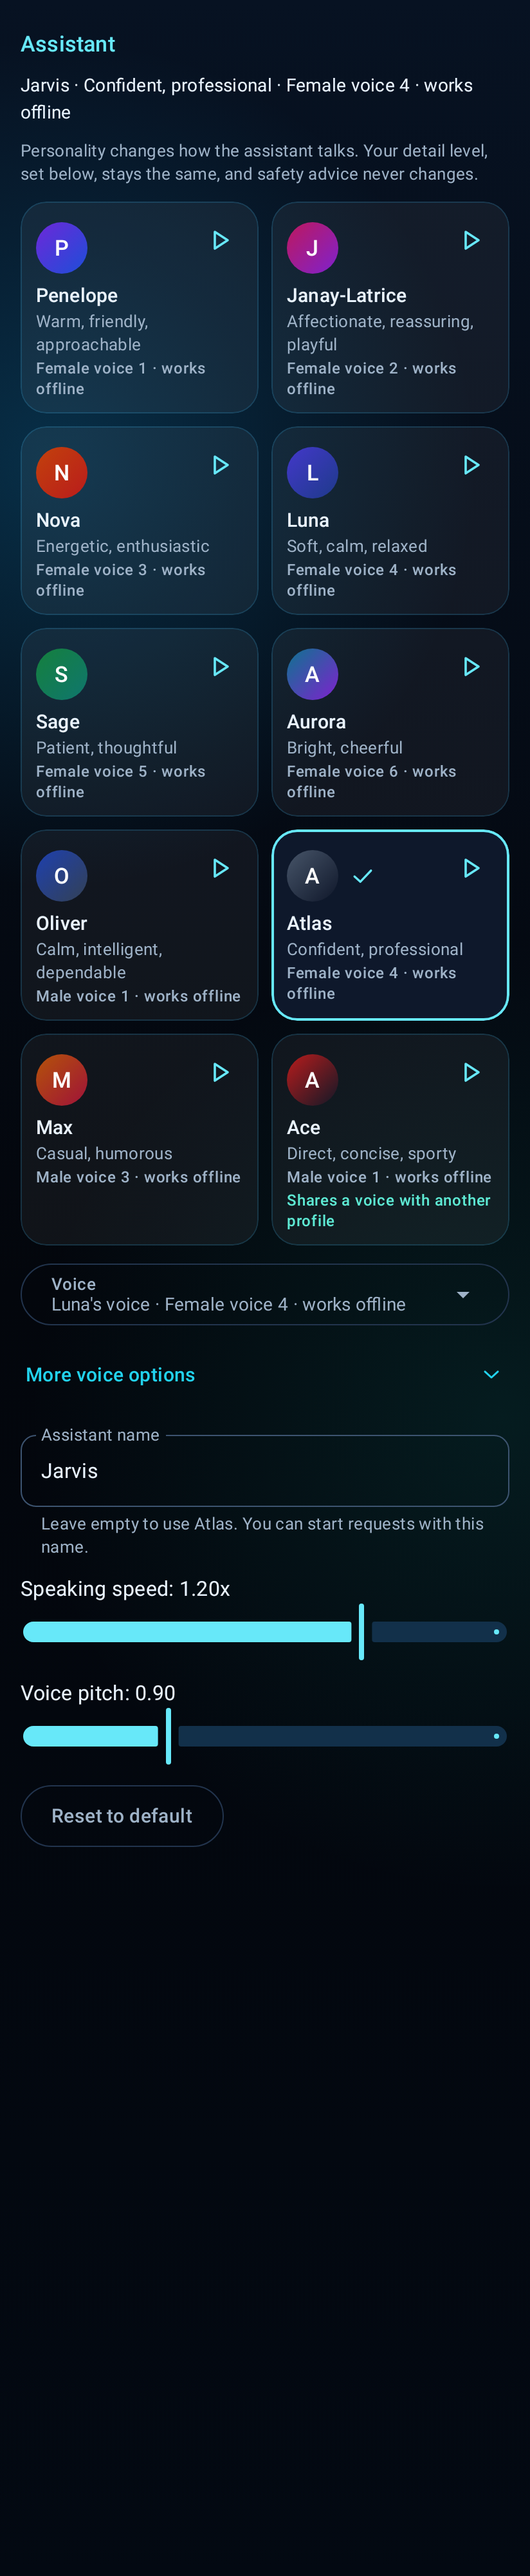
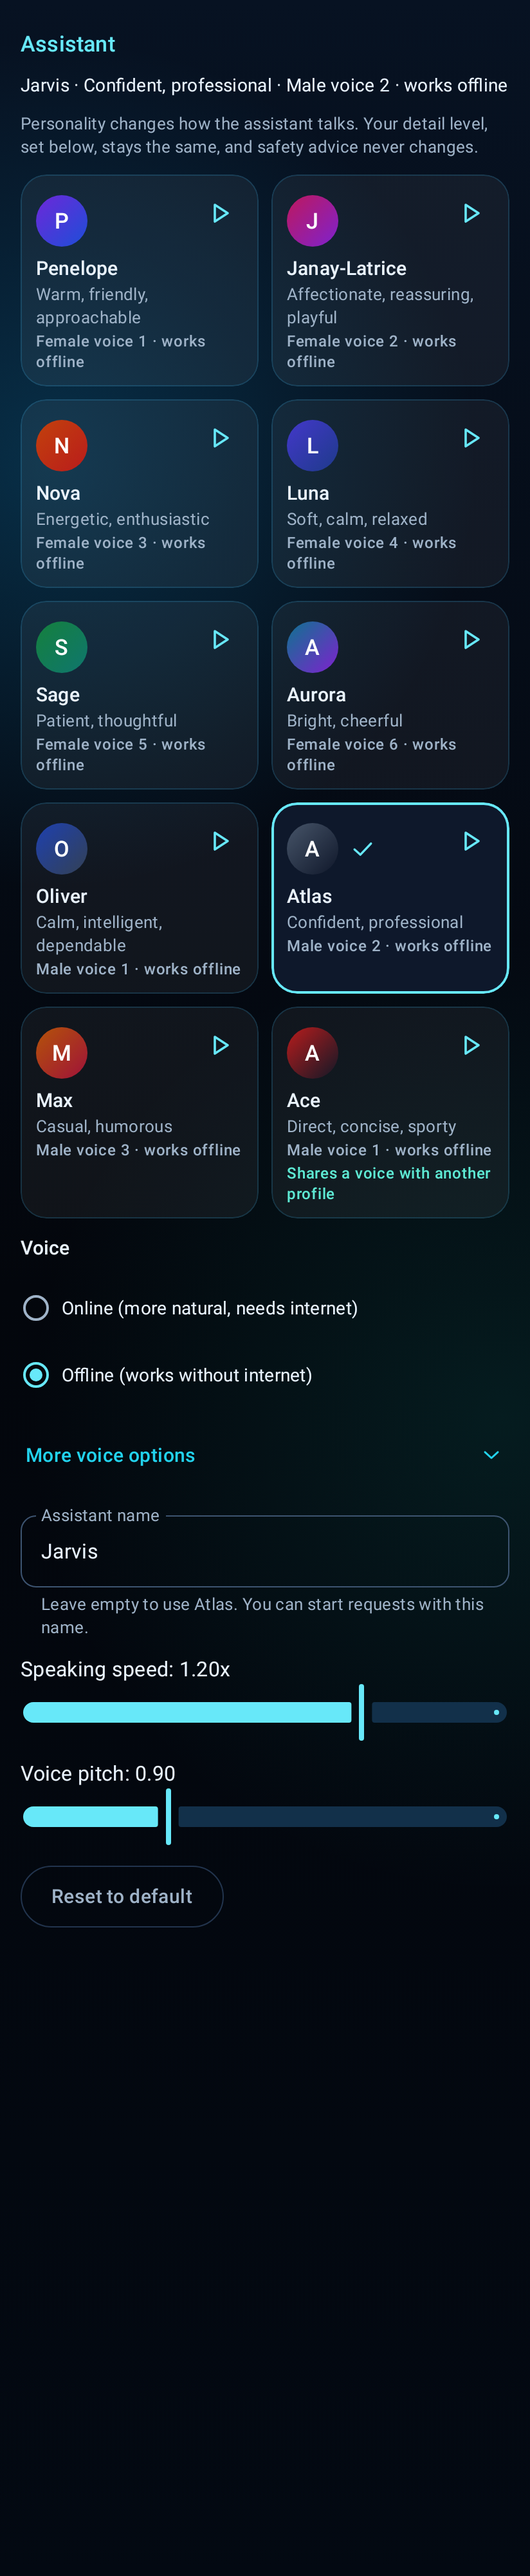
Settings: remove voice dropdown (voice follows profile); add Online/Offline voice choice
Claude-Session: https://claude.ai/code/session_01CrrQxWvMRMsLJ48dtPymJm

diff --git a/app/src/test/java/com/aicarcompanion/app/data/local/SettingsMigrationTest.kt b/app/src/test/java/com/aicarcompanion/app/data/local/SettingsMigrationTest.kt
@@ -1,6 +1,7 @@
 package com.aicarcompanion.app.data.local
 
 import com.aicarcompanion.app.assistant.persona.VoiceChoice
+import com.aicarcompanion.app.data.local.VoiceSource
 import org.junit.Assert.assertEquals
 import org.junit.Assert.assertFalse
 import org.junit.Assert.assertNull
@@ -25,9 +26,9 @@ class SettingsMigrationTest {
         }
     }
 
-    @Test fun `legacy voice becomes an installed voice choice`() {
+    @Test fun `legacy voice is normalized to follow the profile`() {
         val s = SettingsCodec.read(legacy("tts_voice" to "en-us-x-iol-local"))
-        assertEquals(VoiceChoice.Installed("en-us-x-iol-local"), s.voiceChoice)
+        assertEquals(VoiceChoice.MatchPersonality, s.voiceChoice)
         assertEquals(VoiceChoice.MatchPersonality, SettingsCodec.read(legacy()).voiceChoice)
     }
 
@@ -45,7 +46,7 @@ class SettingsMigrationTest {
         assertFalse(kv.map.containsKey("assistant_name"))
         assertFalse(kv.map.containsKey("tts_voice"))
         assertEquals("Jarvis", kv.map["custom_assistant_name"])
-        assertEquals("installed:v1", kv.map["voice_choice"])
+        assertEquals("match", kv.map["voice_choice"])
         assertEquals("penelope", kv.map["assistant_profile"])
     }
 
@@ -71,15 +72,37 @@ class SettingsMigrationTest {
         assertEquals(VoiceChoice.MatchPersonality, SettingsCodec.read(legacy("settings_schema" to "2", "voice_choice" to "installed:")).voiceChoice)
     }
 
-    @Test fun `all voice choices and profile round-trip`() {
-        listOf(VoiceChoice.MatchPersonality, VoiceChoice.Profile("max"), VoiceChoice.Installed("en-gb-x-gbb-local")).forEach { choice ->
+    @Test fun `profile name and voice source round-trip and the voice always follows the profile`() {
+        VoiceSource.entries.forEach { source ->
             val kv = MapKeyValueStore()
             val store = PersistentSettingsStore(kv)
-            store.update { it.copy(assistantProfileId = "ace", customName = "Zoë", voiceChoice = choice) }
+            store.update { it.copy(assistantProfileId = "ace", customName = "Zoë", voiceChoice = VoiceChoice.Profile("max"), voiceSource = source) }
             val back = PersistentSettingsStore(kv).settings.value
-            assertEquals(choice, back.voiceChoice)
+            assertEquals(VoiceChoice.MatchPersonality, back.voiceChoice)
+            assertEquals(source, back.voiceSource)
             assertEquals("ace", back.assistantProfileId)
             assertEquals("Zoë", back.assistantName)
+        }
+    }
+
+    @Test fun `voice source defaults to offline and a bad value falls back to offline`() {
+        assertEquals(VoiceSource.OFFLINE, SettingsCodec.read(legacy()).voiceSource)
+        assertEquals(VoiceSource.OFFLINE, SettingsCodec.read(legacy("settings_schema" to "2", "voice_source" to "weird")).voiceSource)
+        assertEquals(VoiceSource.ONLINE, SettingsCodec.read(legacy("settings_schema" to "2", "voice_source" to "online")).voiceSource)
+        val kv = MapKeyValueStore()
+        PersistentSettingsStore(kv).update { it.copy(voiceSource = VoiceSource.ONLINE) }
+        assertEquals("online", kv.map["voice_source"])
+    }
+
+    @Test fun `a stored installed or profile voice choice is normalized to match and persisted once`() {
+        listOf("installed:en-gb-x-gbb-local", "profile:max").forEach { stored ->
+            val kv = legacy("settings_schema" to "2", "assistant_profile" to "ace", "custom_assistant_name" to "Zed", "voice_choice" to stored)
+            assertTrue(SettingsCodec.needsVoiceNormalization(kv))
+            val s = PersistentSettingsStore(kv).settings.value
+            assertEquals(VoiceChoice.MatchPersonality, s.voiceChoice)
+            assertEquals("match", kv.map["voice_choice"])
+            assertEquals("ace", kv.map["assistant_profile"]); assertEquals("Zed", kv.map["custom_assistant_name"])
+            assertFalse(SettingsCodec.needsVoiceNormalization(kv))
         }
     }
 
@@ -88,7 +111,10 @@ class SettingsMigrationTest {
         assertFalse(SettingsCodec.needsMigration(kv))
         val s = PersistentSettingsStore(kv).settings.value
         assertEquals("ace", s.assistantProfileId); assertEquals("Zed", s.customName)
-        assertEquals(VoiceChoice.Profile("luna"), s.voiceChoice)
+        assertEquals(VoiceChoice.MatchPersonality, s.voiceChoice)
+        // Normalizing the voice touches only that key: the newer schema marker and other keys stay.
+        assertEquals("match", kv.map["voice_choice"])
+        assertEquals("3", kv.map["settings_schema"])
         assertEquals("Zed", kv.map["custom_assistant_name"])
     }
 

diff --git a/app/src/test/java/com/aicarcompanion/app/ui/PersonalizationUiTest.kt b/app/src/test/java/com/aicarcompanion/app/ui/PersonalizationUiTest.kt
@@ -70,7 +70,15 @@ class PersonalizationUiTest {
         }
     }
 
-    private val isRadio = SemanticsMatcher("is a radio button") { it.config.getOrNull(SemanticsProperties.Role) == Role.RadioButton }
+    private fun isSourceRadio(n: androidx.compose.ui.semantics.SemanticsConfiguration): Boolean {
+        val t = n.getOrNull(SemanticsProperties.Text).orEmpty().joinToString { it.text }
+        return n.getOrNull(SemanticsProperties.Role) == Role.RadioButton && (t.contains("Online (") || t.contains("Offline ("))
+    }
+
+    /** A profile tile: a radio button that is not one of the two voice-source options. */
+    private val isRadio = SemanticsMatcher("is a profile tile") {
+        it.config.getOrNull(SemanticsProperties.Role) == Role.RadioButton && !isSourceRadio(it.config)
+    }
 
     @Test fun allTenProfilesAreSelectableTiles() {
         show()
@@ -129,10 +137,7 @@ class PersonalizationUiTest {
         compose.onNodeWithText("More voice options").performScrollTo().assertIsDisplayed()
     }
 
-    private val sourceRadios = SemanticsMatcher("voice source radio") {
-        it.config.getOrNull(SemanticsProperties.Role) == Role.RadioButton &&
-            (it.config.getOrNull(SemanticsProperties.Text).orEmpty().joinToString { t -> t.text }).let { t -> t.contains("Online (") || t.contains("Offline (") }
-    }
+    private val sourceRadios = SemanticsMatcher("voice source radio") { isSourceRadio(it.config) }
 
     @Test fun voiceSourceHasTwoRadioOptionsOfAtLeast48dp() {
         val picked = mutableListOf<com.aicarcompanion.app.data.local.VoiceSource>()
@@ -141,8 +146,8 @@ class PersonalizationUiTest {
         assertEquals(2, nodes.size)
         val density = compose.activity.resources.displayMetrics.density
         nodes.forEach { assertTrue(it.size.height / density >= 47.5f) }
-        compose.onNode(isRadio and hasText("Offline (works without internet)")).assertIsSelected()
-        compose.onNode(isRadio and hasText("Online (more natural, needs internet)")).performScrollTo().performClick()
+        compose.onNode(sourceRadios and hasText("Offline (works without internet)")).assertIsSelected()
+        compose.onNode(sourceRadios and hasText("Online (more natural, needs internet)")).performScrollTo().performClick()
         assertEquals(listOf(com.aicarcompanion.app.data.local.VoiceSource.ONLINE), picked)
     }
 

diff --git a/app/src/test/java/com/aicarcompanion/app/assistant/VoiceSelectorTest.kt b/app/src/test/java/com/aicarcompanion/app/assistant/VoiceSelectorTest.kt
@@ -151,4 +151,38 @@ class VoiceSelectorTest {
         val r = VoiceSelector.resolve(VoiceRequest.EngineDefault, google, us)
         assertTrue(r is VoiceResolution.FallbackDefault)
     }
+
+    private val mixed = listOf(
+        v("en-us-x-sfg-local"), v("en-us-x-tpf-local"),
+        v("en-us-x-sfg-network", net = true), v("en-us-x-tpf-network", net = true),
+        v("en-us-x-iom-local"), v("mystery-net", net = true),
+    )
+
+    private fun pick(g: VoiceGender, slot: Int, online: Boolean, voices: List<RawVoice> = mixed) =
+        VoiceSelector.resolve(VoiceRequest.Gendered(g, slot, online), voices, us) as VoiceResolution.Voice
+
+    @Test fun `offline mode prefers offline voices and online mode prefers network voices of the same gender`() {
+        val off = pick(VoiceGender.FEMALE, 0, online = false)
+        assertFalse(off.requiresNetwork)
+        val on = pick(VoiceGender.FEMALE, 0, online = true)
+        assertTrue(on.requiresNetwork)
+        assertEquals(VoiceGender.FEMALE, on.gender)
+        assertTrue(on.label.endsWith("needs internet"))
+        // Deterministic: same answer every time, and slots map onto the online pool.
+        assertEquals(on, pick(VoiceGender.FEMALE, 0, online = true))
+        assertTrue(pick(VoiceGender.FEMALE, 1, online = true).voiceName != on.voiceName)
+    }
+
+    @Test fun `online mode never picks an unknown gender and falls back to offline when a gender has no network voice`() {
+        val male = pick(VoiceGender.MALE, 0, online = true)
+        assertEquals("en-us-x-iom-local", male.voiceName)
+        assertFalse(male.requiresNetwork)
+        assertTrue(listOf("mystery-net") .none { pick(VoiceGender.FEMALE, 0, true).voiceName == it })
+        assertTrue(gendered(VoiceGender.FEMALE, 0, listOf(v("mystery-net", net = true))) is VoiceResolution.FallbackDefault)
+        assertTrue(VoiceSelector.resolve(VoiceRequest.Gendered(VoiceGender.FEMALE, 0, true), listOf(v("mystery-net", net = true)), us) is VoiceResolution.FallbackDefault)
+    }
+
+    @Test fun `online mode marks voices shared when fewer network voices than profiles`() {
+        assertTrue(pick(VoiceGender.FEMALE, 0, online = true).shared)
+    }
 }

diff --git a/app/src/test/java/com/aicarcompanion/app/assistant/VoiceConfigFactoryTest.kt b/app/src/test/java/com/aicarcompanion/app/assistant/VoiceConfigFactoryTest.kt
@@ -42,6 +42,12 @@ class VoiceConfigFactoryTest {
         assertEquals(VoiceRequest.Gendered(VoiceGender.MALE, 1), VoiceConfigFactory.from(s, VoiceChoice.Profile("atlas")).voice)
     }
 
+    @Test fun `voice source online asks for network voices and the binder applies a change`() {
+        val c = VoiceConfigFactory.from(AppSettings(assistantProfileId = "ace", voiceSource = com.aicarcompanion.app.data.local.VoiceSource.ONLINE))
+        assertEquals(VoiceRequest.Gendered(VoiceGender.MALE, 3, preferOnline = true), c.voice)
+        assertEquals(VoiceRequest.Gendered(VoiceGender.MALE, 3), VoiceConfigFactory.from(AppSettings(assistantProfileId = "ace")).voice)
+    }
+
     @Test fun `rate pitch and engine carry over and are clamped`() {
         val c = VoiceConfigFactory.from(AppSettings(speechRate = 1.2f, speechPitch = 0.9f, ttsEngine = "com.x"))
         assertEquals(1.2f, c.rate); assertEquals(0.9f, c.pitch); assertEquals("com.x", c.engine)
@@ -65,7 +71,9 @@ class VoiceConfigFactoryTest {
         store.update { it.copy(assistantProfileId = "ace") }; advanceUntilIdle()
         store.update { it.copy(customName = "Zed") }; advanceUntilIdle() // name doesn't affect voice
         store.update { it.copy(voiceChoice = VoiceChoice.Profile("luna")) }; advanceUntilIdle()
-        assertEquals(4, out.configs.size)
+        store.update { it.copy(voiceSource = com.aicarcompanion.app.data.local.VoiceSource.ONLINE) }; advanceUntilIdle()
+        assertEquals(5, out.configs.size)
+        assertEquals(VoiceRequest.Gendered(VoiceGender.FEMALE, 3, preferOnline = true), out.configs[4].voice)
         assertEquals(1.3f, out.configs[1].rate)
         assertEquals(VoiceRequest.Gendered(VoiceGender.MALE, 3), out.configs[2].voice)
         assertEquals(VoiceRequest.Gendered(VoiceGender.FEMALE, 3), out.configs[3].voice)

diff --git a/app/src/test/java/com/aicarcompanion/app/phase3/Phase3FoundationsTest.kt b/app/src/test/java/com/aicarcompanion/app/phase3/Phase3FoundationsTest.kt
@@ -37,7 +37,7 @@ class Phase3FoundationsTest {
         store.update {
             it.copy(
                 assistantProfileId = "atlas", customName = "Ada", speechRate = 0.9f, speechPitch = 0.95f, ttsEngine = "com.google.android.tts",
-                voiceChoice = com.aicarcompanion.app.assistant.persona.VoiceChoice.Installed("en-us-x-iol-local"), continuousConversation = false, explanationLevel = ExplanationLevel.DIY,
+                voiceSource = com.aicarcompanion.app.data.local.VoiceSource.ONLINE, continuousConversation = false, explanationLevel = ExplanationLevel.DIY,
             )
         }
         assertEquals(store.settings.value, PersistentSettingsStore(kv).settings.value)

diff --git a/docs/project-memory/DECISIONS.md b/docs/project-memory/DECISIONS.md
@@ -4,6 +4,7 @@ Approved product and technical decisions. Dates are when the change merged into 
 
 | Date | Decision | Source |
 |---|---|---|
+| 2026-11-25 | **Voice follows the profile; no separate voice dropdown** (owner: "i just want the 10 options"). Supersedes the prompt's "independent voice and personality selection". Stored non-match voice choices are normalized to match. Replaced by a two-option Voice setting, **Online** (more natural, needs internet) or **Offline** (default): Online prefers network voices of the profile's gender, falling back so speech never stops | owner 2026-11-25 |
 | 2026-11-24 | **Assistant personalization (owner).** (1) Personality affects Gemini replies only; fixed confirmations stay neutral. (2) Gender is never faked with pitch; the voice is chosen, pitch is a separate user control. (3) The app isn't officially named and the assistant's name is whatever the user sets, so **no user-visible text hardcodes "Penelope"**: assistant text uses the current name (`AppSettings.assistantName`) or first person "I"; text about the app says "this app" / "the app's settings". The Clear-codes history note is stored data and stays neutral ("cleared by you in the app"). The default profile is still named "Penelope". Guarded by `NoHardcodedAssistantNameTest` | PR #72 |
 | 2026-11-22 | **Drive (Phase 3) design.** Calls are a dialer handoff only (`ACTION_DIAL`, never `ACTION_CALL`; no call, SMS, contacts or phone-state permission, no foreground service). Answering calls and calling by name are deferred. Messages are read and answered through a user-enabled notification listener, in memory only, replies via the notification's own reply action, always after spoken or on-screen confirmation, worded "sent to <app>", never "delivered". Media uses separate PLAY/PAUSE keys (never PLAY_PAUSE) or the active session, worded "I asked your media app". Vehicle controls are capability-only with no command method and are all unavailable (an OBD-II adapter is not a control channel). Message bodies never reach the transcript, logs or Gemini | Drive PR (`feature/drive-screen`), architect plan |
 | 2026-11-21 | **Clear codes (Mode 04) approved.** DIY and Advanced only, never Everyday; next to Read codes; only after a successful code read of this vehicle in the current connection; only through an explicit two-step confirmation (one-shot 60 s token bound to vehicle and code read). `ReadOnlyCommandPolicy` and the console stay read-only. Engine must read 0 rpm. The car's answer is interpreted, codes are re-read and the outcome is saved to history. Vehicle-write changes need a passing safety review | Owner, 2026-11-21; Clear-codes PR, `docs/CLEAR_CODES.md` |

diff --git a/docs/DEVICE_TESTING.md b/docs/DEVICE_TESTING.md
@@ -31,11 +31,11 @@ Galaxy S26 Ultra. Automated tests use fake voices, so everything here needs the 
 - Tap each Preview button (10). Note which voices sound female or male. **Samsung vs Google engines label gender differently**: confirm by ear that "Female voice N" and "Male voice N" are right. The Google voice-code table in `VoiceSelector` is a hypothesis.
 - Different profiles should sound different where the phone has enough voices; "Shares a voice with another profile" appears otherwise.
 - Remove or lack a male voice pack: male tiles say "Uses the phone's default voice" and the notice appears. Never a fake male pitch.
-- Choose a network-only voice, go offline, preview and speak: it should fall back to the default voice instead of silence.
+- There is no Voice dropdown; the tiles are the only voice choice. Set Voice to Online: previews use network voices of the profile's gender if installed, else the note "This phone has no online voices installed; using offline voices." appears. With Online chosen, go offline, preview and speak: it falls back to the default voice instead of silence, and returns to the online voice when internet is back. Offline (default) never uses a network voice while an offline one exists.
 - Rename to a custom name; say "hey <name>"; check Home, Drive, Chat and More show it. A name like "Janay-Latrice" is recognised when spoken.
-- Start a continuous conversation, change profile or voice mid-session: current reply is not cut off, the next reply uses the new voice, listening continues, tap-to-interrupt still works.
+- Start a continuous conversation, change profile or the Online/Offline setting mid-session: current reply is not cut off, the next reply uses the new voice, listening continues, tap-to-interrupt still works.
 - Ask the same question as Ace and as Luna (Gemini on): wording and length differ; safety advice and facts do not. Knowledge level is unchanged by profile.
-- Reset to default (confirm dialog); close and reopen the app: settings persist. Upgrading from 0.7.1 keeps a previously chosen name and voice.
+- Reset to default (confirm dialog); close and reopen the app: settings persist. Upgrading from 0.7.1 keeps a previously chosen name; a previously chosen separate voice now follows the selected profile.
 - Font 100% and 200%, light and dark: no clipped or overlapping text. TalkBack: tiles read as radio buttons, previews as "Preview <name>'s voice".
 
 ## 0c. Phase 1: three interfaces

diff --git a/docs/DEVELOPMENT_PROMPT_LOG.md b/docs/DEVELOPMENT_PROMPT_LOG.md
@@ -24,6 +24,7 @@ Record each development prompt, its intended changes, the implementation branch/
 | 2026-11-22 | Phase 2: Live Data workspace | Customizable gauges (DIY and Advanced), named layouts per vehicle, demand-driven single poller, honest sensor states, Room v1 to v2 | `main` | feature/live-data-workspace | Merged (#59, squash 069727f) | 799 tests, 0 failed (release gate); device and adapter verification pending |
 
 | 2026-11-24 | Assistant personalization and voice overhaul (v0.8.0, build 9) | Ten assistant profiles (personality + voice), honest voice selection, custom name, redesigned Settings personalization, hardcoded-name fixes; owner decisions 2026-11-24 applied (no hardcoded "Penelope" in user-visible text) | `main` | feature/assistant-personalization | Merged (#72, squash 580ecba) with owner approval; 1072 tests, 0 failed | 
+| 2026-11-25 | Remove the Settings voice dropdown; add Online/Offline voice setting | Voice always follows the selected profile (stored non-match choices normalized to match and persisted); new `voice_source` setting (Offline default) that makes Online prefer network voices of the profile's gender with the existing fallback; honest no-online-voice note | `main` | feature/remove-voice-dropdown | In progress (not committed) | See `docs/QUALITY_SUMMARY.md`; screenshots in `docs/screenshots/personalization` |
 
 ## Checklist for every new development prompt
 1. Add a dated entry when the prompt is created. State the requested changes and intended target branch. Use **Prompt drafted** until implementation is verified.

diff --git a/docs/ARCHITECTURE.md b/docs/ARCHITECTURE.md
@@ -441,6 +441,6 @@ unverified note). Future schema changes need a Room migration.
 
 ## Assistant personalization and voice (v0.8.0)
 - `assistant/persona`: `AssistantProfiles` (ten fixed profiles), `AssistantNamePolicy` (sanitizes the custom name), `VoiceChoice`. No Android imports.
-- Settings schema 2 (`SettingsCodec`): `assistant_profile`, `custom_assistant_name`, `voice_choice`. Legacy `assistant_name` and `tts_voice` migrate once and are removed (one-way; older builds ignore the new keys).
+- Settings schema 2 (`SettingsCodec`): `assistant_profile`, `custom_assistant_name`, `voice_choice` (always normalized to `match`; the voice follows the profile), `voice_source` (`offline` default or `online`). Legacy `assistant_name` and `tts_voice` migrate once and are removed (one-way; older builds ignore the new keys).
 - `VoiceSelector` (pure) resolves a `VoiceRequest` against the voices the engine reports; gender only from the phone's data (features, Samsung or Google name codes), never guessed, never faked by pitch. `VoiceConfigFactory` is the single path from settings to `VoiceConfig`, used by `VoiceSettingsBinder` (live settings), conversation and previews. `AndroidSpeechOutput` applies a changed voice at the next utterance and retries once with the default voice if a network voice fails.
 - UI: `ui/settings/PersonalizationSection.kt` (stateless), `ProfileTileStyle.kt`. Screenshots: `docs/screenshots/personalization/` (before/ holds the old Settings voice area).

diff --git a/docs/project-memory/FEATURES.md b/docs/project-memory/FEATURES.md
@@ -49,4 +49,4 @@ Status labels are explained in [README.md](README.md). Only the features under *
 - **Clear trouble codes:** only ever as a separate, explicit, confirmed feature. Never automatic.
 - **Vehicle simulation mode:** excluded from recent phases by the owner.
 - **Becoming the phone's default dialer:** not planned (`docs/HANDS_FREE.md`).
-| Assistant personalization: ten profiles (personality for Gemini replies + matching voice), independent voice choice, sanitized custom name, speed/pitch, reset; voice labels only claim a gender the phone reports; no pitch-faked genders | #72 | 🔧 Built and merged, not yet device-verified (v0.8.0, build 9) |
+| Assistant personalization: ten profiles (personality for Gemini replies + matching voice), each profile speaks with its own voice (no separate voice dropdown), an Online/Offline voice setting (default Offline), sanitized custom name, speed/pitch, reset; voice labels only claim a gender the phone reports; no pitch-faked genders | #72 | 🔧 Built and merged, not yet device-verified (v0.8.0, build 9) |

diff --git a/docs/QUALITY_SUMMARY.md b/docs/QUALITY_SUMMARY.md
@@ -48,3 +48,4 @@ One line per stage, newest first. Full reports are attached to each CI run as th
 ## Known warnings
 - `OldTargetApi`: `targetSdk` is still 35 while compileSdk is 37. Kept on purpose: raising the target changes runtime behavior on the phone and needs its own stage with device testing.
 | 2026-11-24 | Assistant personalization and voice overhaul (v0.8.0, build 9) | PASS (local, --release) | 1072 run, 0 failed (incl. owner-decision follow-up) | 0 / 2 | 0 | NOT RUN on device (voice gender, engines, network voices, TalkBack) | NEEDS MANUAL VERIFICATION |
+| 2026-11-25 | Remove voice dropdown; Online/Offline voice setting | compile, detekt, lintDebug, unit tests PASS locally (`./gradlew :app:compileDebugKotlin :app:testDebugUnitTest :app:detekt :app:lintDebug -q`); `scripts/quality-gate.sh` NOT RUN | 1087+ run, 0 failed | n/a | 0 | NOT RUN on device (online voices, offline fallback, TalkBack) | NEEDS MANUAL DEVICE CHECK |
